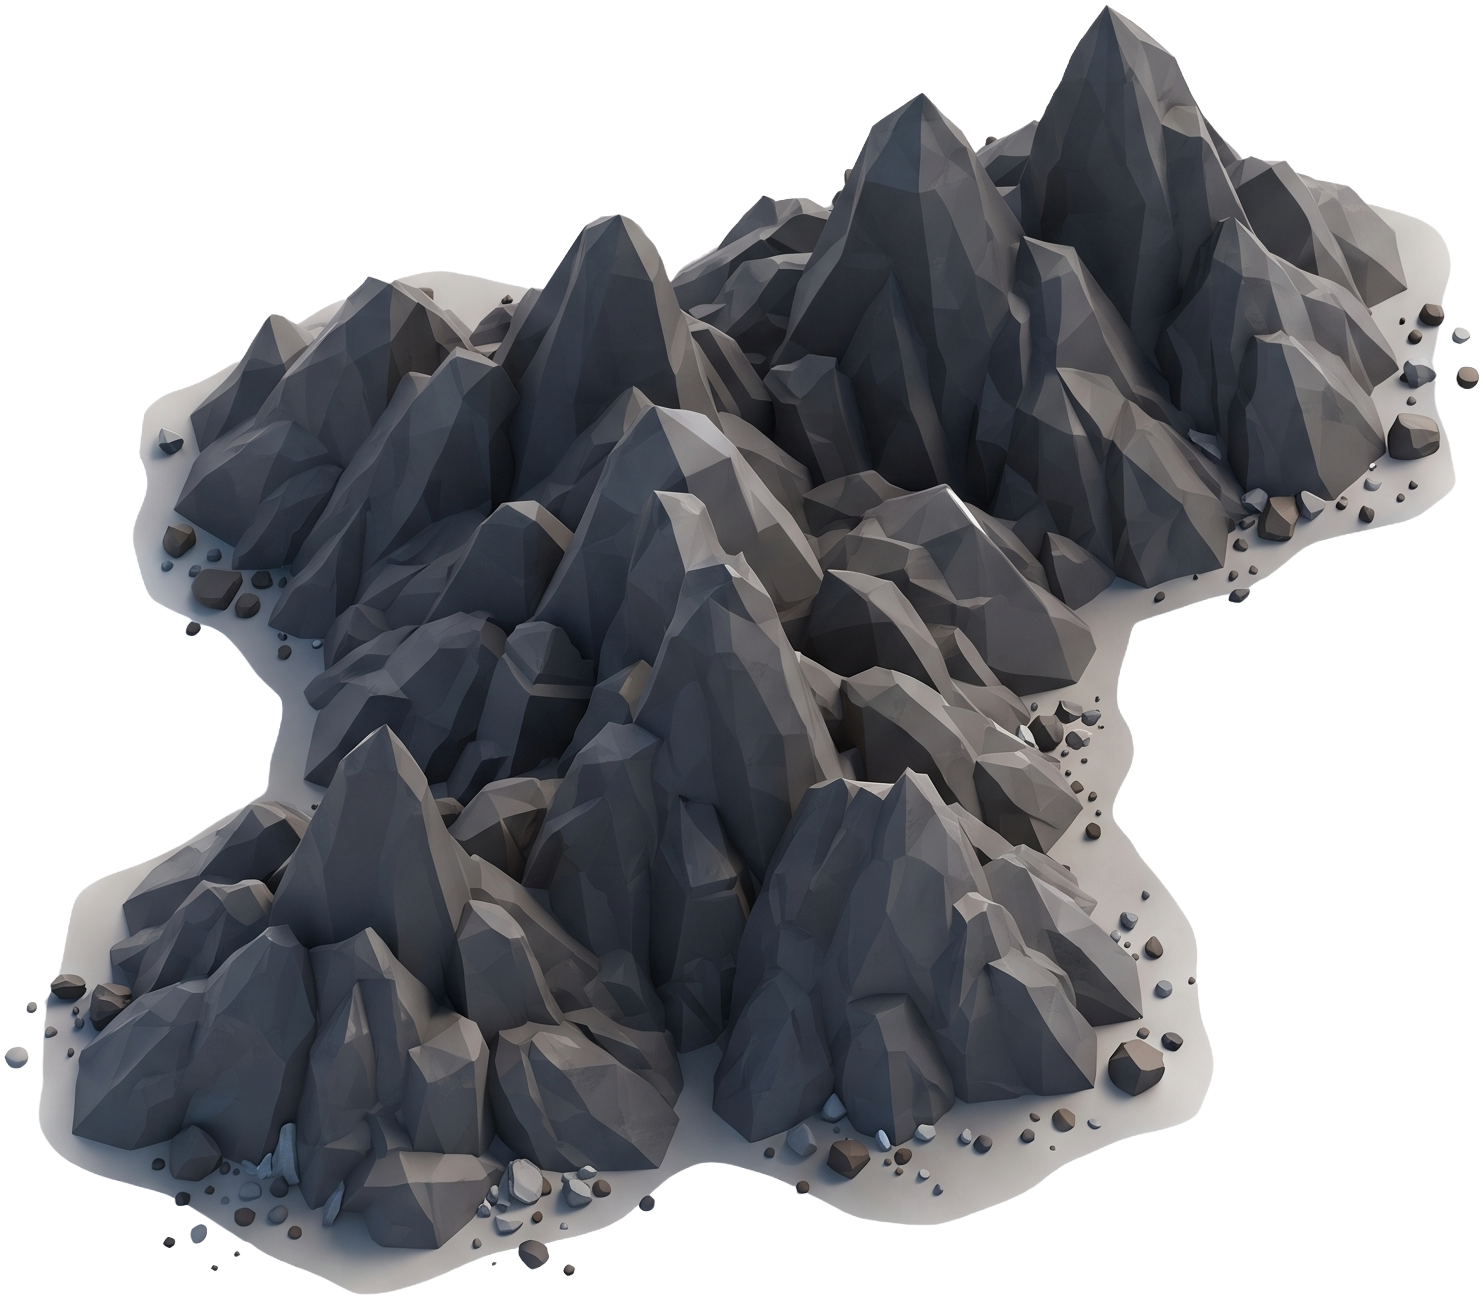
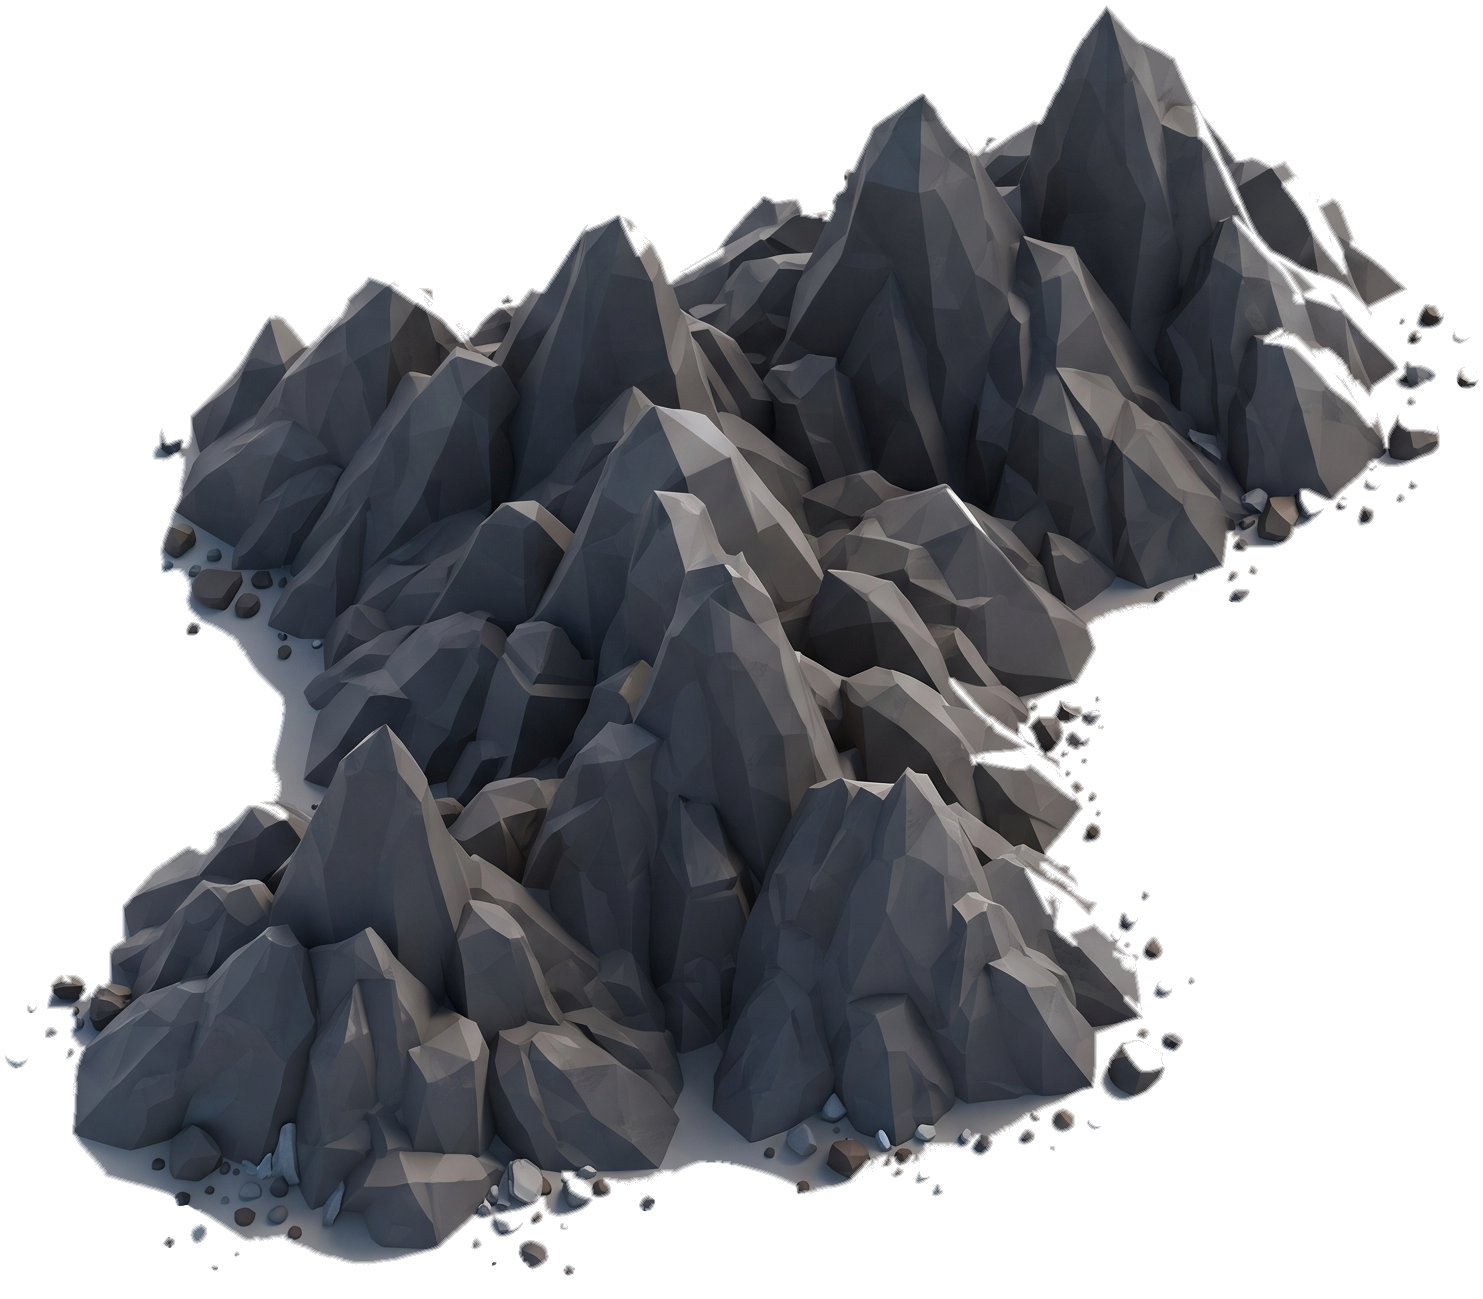
Fix mountain decor blending, enforce 1-hex buffer, closer zoom, glow on all objects
- Strip the baked-in light-gray ground apron from range-a/range-b mountain
  PNGs (region-growing flood fill from the transparent border through
  bright pixels only, so it never eats into genuinely lit rock faces) --
  this was causing a visible tone-mismatch seam against the flat green
  hex grass.
- Mountains now occupy exactly one logical hex, like castles, instead of
  a multi-hex footprint. Placement now requires the root hex AND its full
  ring of 6 neighbors to be free of any other object (castle/NPC/other
  decor), so nothing ever sits edge-to-edge with anything else. Raised
  MOUNTAIN_DENSITY so the result reads as sparse/proportional rather than
  clustered.
- Doubled every TILE_WIDTHS step so the opening view and the normal zoom
  range are both 2x closer than before.
- Added the existing pulsing glow treatment to NPC castles (own orange
  tone) and mountain decor (teal tone) -- previously only player castles
  had it.
- New one-time server migration (decor_rebalance_reset_v1) wipes the test
  players/tiles/guilds and regenerates a fresh map on next boot, per
  direct request, following the same reset pattern as the three earlier
  map-format migrations.

diff --git a/client/src/App.tsx b/client/src/App.tsx
@@ -56,7 +56,12 @@ const VIEWPORT_MARGIN = 6;
 // engelliyor, ve varsayılan (72) eskisinden %56 daha büyük başlıyor ("daha
 // yakın plan"). Üst uca da bir sonraki adım (160) eklendi, yakınlaştırma
 // tavanı da birlikte yükselsin diye.
-const TILE_WIDTHS = [36, 52, 72, 100, 136, 160];
+// Eren (2. tur): "Oyun açılış ve standart oynanış ekranı şuan mevcut olandan
+// x2 zoom mesafesi daha yakın olucak." -- her seviye birebir 2 katına
+// çıkarıldı (varsayılan index AYNI kaldı, yani 72 -> 144), böylece hem
+// açılış hem de zoom in/out aralığının TAMAMI orantılı şekilde 2x yakınlaşmış
+// oluyor.
+const TILE_WIDTHS = [72, 104, 144, 200, 272, 320];
 // Varsayılan artık 72px (index 2) -- eski varsayılan (46) yerine, "daha yakın
 // plan" isteği için bir kademe büyütüldü.
 const DEFAULT_TILE_WIDTH_INDEX = 2;
@@ -135,39 +140,36 @@ function grassTextureForTile(x: number, y: number): string {
 }
 
 // ---------------------------------------------------------------------
-// Dağ / çoklu-hex dekor sistemi
+// Dağ / dekor sistemi
 // ---------------------------------------------------------------------
-// Eren: "dağ olayı ... çoklu hexliye yükleme" -- 5 benzersiz dağ görseli
-// gönderdi (3 kanyon/yarık tarzı, 2 sıradağ tarzı). Kale görselinin karo
-// dışına taşması gibi ama ÇOK daha büyük: her dağ TEK bir hex'e değil,
-// kök karoya bitişik birden fazla hex'e birden yayılan bir sprite.
-// "yönleri asimetrik yerleşebilir" notu üzerine her dağın ayak izi
-// BİLEREK simetrik olmayan bir hex kümesi -- server/src/game/mapgen.ts
-// HEX_DIRECTIONS'daki ([[1,0],[1,-1],[0,-1],[-1,0],[-1,1],[0,1]]) 6 gerçek
-// komşu yönden seçilmiş bir alt küme, düzgün "çiçek" şekli değil.
+// Eren: "Yüklediğimiz dağ görsellerinde zeminde üstüste binme var ... her
+// bir kale 1 hex zeminde yer alıyor ve merkez hex'in etrafındaki komşu 6
+// hex'e hiçbirşey yerleşmemeli. Hem kaleler hemde tüm görseller için
+// geçerli bu. Objelerin etrafında dönen tam 1 tur hex boş olucak." -- eski
+// sistemde bir dağ, kök karoya bitişik BİRDEN FAZLA hex'e yayılan bir
+// footprint kullanıyordu; bu hem iki dağın (ya da bir dağ ile bir kalenin)
+// doğrudan yan yana/iç içe çizilmesine hem de dağ görselindeki (PNG'nin
+// kendi kayadan taşan açık gri zemin/gölge apronu) komşu hex'in farklı
+// tondaki çimiyle çarpışıp görünür bir "dikiş" gibi durmasına yol açıyordu.
+// Artık her dağ, kale ikonları gibi TEK bir mantıksal hex'e ait; görseli o
+// hex'in sınırlarından `scale` oranında TAŞARAK çiziliyor ama sadece bu
+// kökün 6 komşusunun (hem kale/NPC hem başka dağ için) HER ZAMAN boş
+// kalacağı garanti edildiği için (bkz. `occupied` kontrolü aşağıda) taşma
+// hiçbir zaman başka bir objeyle çakışmıyor.
 //
 // Yerleştirme sunucuya/DB'ye HİÇ dokunmadan tamamen CLIENT tarafında,
 // koordinata göre DETERMİNİSTİK yapılıyor (bkz. hashXY -- grassTextureForTile
 // ile aynı prensip: Math.random() değil, sayfa her açıldığında AYNI
-// karolarda aynı dağ çıksın). Bu yaklaşımın bilinçli tercih sebebi: harita
-// zaten CANLI ve üretilmiş -- mapgen.ts'e (sunucu, sadece YENİ üretilecek
-// haritaları etkiler) dokunmak burada hiçbir şey değiştirmezdi. Bir dağ,
-// ayak izindeki TÜM karolar o an "EMPTY" (boş) DEĞİLSE hiç yerleştirilmiyor
-// -- yani var olan bir NPC kampının veya oyuncu kalesinin üzerine asla
-// binmiyor, bu da NPC'lerin dağ karolarına "spawn olması" sorununu ayrıca
-// bir koda gerek kalmadan otomatik olarak engelliyor (bkz.
-// computePlacedMountains).
+// karolarda aynı dağ çıksın).
 type MountainDef = {
   id: string;
   img: string;
-  // Kök karoya göre komşu offsetleri (HEX_DIRECTIONS'ın bir alt kümesi).
-  footprint: [number, number][];
-  scale: number; // kapladığı kutuyu bu kadar büyüt (hafif taşma/zenginlik için)
+  scale: number; // görsel, kendi hex'inin kaç katı bir kutuya sığdırılıp ortalanacak (kale ikonlarındaki taşma payı gibi)
 };
 
 const MOUNTAIN_DEFS: MountainDef[] = [
-  { id: "range-a", img: "/decor/mountains/range-a.png", footprint: [[0, 0], [1, 0], [0, 1], [1, -1]], scale: 1.1 },
-  { id: "range-b", img: "/decor/mountains/range-b.png", footprint: [[0, 0], [-1, 0], [-1, 1], [0, 1], [1, 0]], scale: 1.1 },
+  { id: "range-a", img: "/decor/mountains/range-a.png", scale: 2.2 },
+  { id: "range-b", img: "/decor/mountains/range-b.png", scale: 2.2 },
 ];
 
 // Basit, hızlı, deterministik tam sayı hash'i (Math.random() DEĞİL -- aynı
@@ -179,10 +181,17 @@ function hashXY(x: number, y: number, seed: number): number {
   return h >>> 0;
 }
 
-// Yaklaşık her 60 boş karodan biri bir dağ ADAYI olarak seçiliyor -- ayak
-// izi tamamen boş çıkmayan adaylar elendiği için gerçek yoğunluk bundan
-// belirgin şekilde daha seyrek.
-const MOUNTAIN_DENSITY = 60;
+// server/src/game/mapgen.ts'teki HEX_DIRECTIONS ile birebir aynı 6 axial
+// komşu yön -- bir hex'in "1 tur"unu (6 komşusunu) bulmak için kullanılıyor.
+const HEX_DIRECTIONS: [number, number][] = [
+  [1, 0], [1, -1], [0, -1], [-1, 0], [-1, 1], [0, 1],
+];
+
+// Eren: "Dekorları daha az tut - haritaya orantılı şekilde dağıt." -- tek-hex
+// + 1 tur boşluk kuralı zaten adayların çoğunu eleyip yoğunluğu belirgin
+// şekilde azaltıyor, ama üstüne bu değer de eskisinden (60) ciddi oranda
+// yükseltildi ki sonuç harita genelinde seyrek/nadir kalsın.
+const MOUNTAIN_DENSITY = 240;
 
 type PlacedMountain = {
   key: string;
@@ -193,8 +202,16 @@ type PlacedMountain = {
 };
 
 function computePlacedMountains(tiles: Tile[]): PlacedMountain[] {
-  const byKey = new Map<string, Tile>();
-  for (const t of tiles) byKey.set(`${t.x},${t.y}`, t);
+  // Bir hex "işgal edilmiş" sayılır ki komşusuna YENİ bir dekor kökü
+  // yerleştirilemesin -- ya gerçek bir kale/NPC karosudur ya da daha önce
+  // bu döngüde bir dağın kökü olarak seçilmiştir. Kale-kale bitişikliği
+  // BİLEREK burada kısıtlanmıyor (oyuncular komşu kareyi fethederek
+  // genişler, bu normal oynanış) -- kural sadece dekorun kendisine ve
+  // dekorun kalelere/başka dekora olan mesafesine uygulanıyor.
+  const occupied = new Set<string>();
+  for (const t of tiles) {
+    if (t.tileType !== "EMPTY") occupied.add(`${t.x},${t.y}`);
+  }
 
   const candidates = tiles.filter(
     (t) => t.tileType === "EMPTY" && hashXY(t.x, t.y, 1) % MOUNTAIN_DENSITY === 0
@@ -203,20 +220,17 @@ function computePlacedMountains(tiles: Tile[]): PlacedMountain[] {
   // sırada çözülmesi için koordinataya göre sırala.
   candidates.sort((a, b) => a.x - b.x || a.y - b.y);
 
-  const claimed = new Set<string>();
   const placed: PlacedMountain[] = [];
   for (const t of candidates) {
+    const key = `${t.x},${t.y}`;
+    if (occupied.has(key)) continue;
+    const touchesOccupied = HEX_DIRECTIONS.some(([dx, dy]) => occupied.has(`${t.x + dx},${t.y + dy}`));
+    if (touchesOccupied) continue;
+
     const defIndex = hashXY(t.x, t.y, 2) % MOUNTAIN_DEFS.length;
     const def = MOUNTAIN_DEFS[defIndex];
-    const footprintKeys = def.footprint.map(([dx, dy]) => `${t.x + dx},${t.y + dy}`);
-    const allEmpty = footprintKeys.every((k) => {
-      const ft = byKey.get(k);
-      return !!ft && ft.tileType === "EMPTY" && !claimed.has(k);
-    });
-    if (!allEmpty) continue;
-    for (const k of footprintKeys) claimed.add(k);
-    const frontSortKey = Math.max(...def.footprint.map(([dx, dy]) => t.x + dx + (t.y + dy)));
-    placed.push({ key: `${t.x},${t.y}:${def.id}`, def, rootX: t.x, rootY: t.y, frontSortKey });
+    occupied.add(key);
+    placed.push({ key: `${key}:${def.id}`, def, rootX: t.x, rootY: t.y, frontSortKey: t.x + t.y });
   }
   return placed;
 }
@@ -923,17 +937,11 @@ export default function App() {
   // tutarlılık garanti ediliyor.
   const mountainScreens = useMemo(() => {
     return placedMountains.map((m) => {
-      const centers = m.def.footprint.map(([dx, dy]) => isoCenter(m.rootX + dx, m.rootY + dy, tileWidth));
-      const minCx = Math.min(...centers.map((c) => c.cx)) - tileWidth / 2;
-      const maxCx = Math.max(...centers.map((c) => c.cx)) + tileWidth / 2;
-      const minCy = Math.min(...centers.map((c) => c.cy)) - tileHeight / 2;
-      const maxCy = Math.max(...centers.map((c) => c.cy)) + tileHeight / 2;
-      const boxW = (maxCx - minCx) * m.def.scale;
-      const boxH = (maxCy - minCy) * m.def.scale;
-      const centerX = (minCx + maxCx) / 2;
-      const centerY = (minCy + maxCy) / 2;
-      const box: MountainScreenBox = { key: m.key, centerX, centerY, radius: (boxW + boxH) / 4 };
-      return { mountain: m, left: centerX - boxW / 2, top: centerY - boxH / 2, width: boxW, height: boxH, box };
+      const { cx, cy } = isoCenter(m.rootX, m.rootY, tileWidth);
+      const boxW = tileWidth * m.def.scale;
+      const boxH = tileHeight * m.def.scale;
+      const box: MountainScreenBox = { key: m.key, centerX: cx, centerY: cy, radius: (boxW + boxH) / 4 };
+      return { mountain: m, left: cx - boxW / 2, top: cy - boxH / 2, width: boxW, height: boxH, box };
     });
   }, [placedMountains, tileWidth, tileHeight]);
 
@@ -1536,9 +1544,10 @@ export default function App() {
                         .iso-labels-layer: NPC gri, kendi/klan sarı, düşman
                         oyuncu kırmızı. */}
                     {showCastle && (
-                      // Eren: "Sadece oyuncu kalelerine ışıltı ekle" -- glow
-                      // sadece burada (showCastle/PLAYER dalı), NPC kampları
-                      // (showNpc dalı, aşağıda) hiç dokunulmadı.
+                      // Eren (2. tur): "Tüm kale ve dekorlara da ışıltı ekle"
+                      // -- altın parıltı artık NPC kamplarında da var (bkz.
+                      // showNpc dalı), oyuncu kaleleri kendi altın tonunu
+                      // korudu.
                       <img
                         src={castleIcon}
                         alt=""
@@ -1555,7 +1564,7 @@ export default function App() {
                       <img
                         src={npcIcon}
                         alt=""
-                        className="iso-castle"
+                        className="iso-castle iso-npc-glow"
                         style={{
                           width: npcBoxWidth,
                           height: npcBoxHeight,
@@ -1586,24 +1595,23 @@ export default function App() {
                   </div>
                 );
               })}
-              {/* Dağ / çoklu-hex dekor katmanı -- bkz. yukarıdaki
-                  MOUNTAIN_DEFS/computePlacedMountains yorumu. Kale
-                  görsellerinin karo dışına taşması gibi ama çok daha büyük:
-                  her <img> kendi kapladığı TÜM hex'lerin ekran alanına
-                  sığacak şekilde konumlanıyor (bkz. mountainScreens),
-                  z-index'i de frontSortKey'e göre yukarıdaki karolarla AYNI
-                  numaralandırmada -- böylece dağın önünden geçen bir karo
-                  dağın üstüne, arkasındaki bir karo dağın altına doğru
-                  çiziliyor (painter's algorithm, bkz. sortedTiles yorumu).
-                  pointer-events:none -- tıklama her zaman altındaki (zaten
-                  "ölü alan" olan EMPTY) karoya gidiyor, ayrıca bir tıklama
-                  davranışı eklemeye gerek yok. */}
+              {/* Dağ / dekor katmanı -- bkz. yukarıdaki MOUNTAIN_DEFS/
+                  computePlacedMountains yorumu. Kale görsellerinin karo
+                  dışına taşması gibi: her <img> kendi kök hex'inin ekran
+                  alanına `scale` oranında taşarak konumlanıyor (bkz.
+                  mountainScreens), z-index'i de frontSortKey'e göre
+                  yukarıdaki karolarla AYNI numaralandırmada -- böylece dağın
+                  önünden geçen bir karo dağın üstüne, arkasındaki bir karo
+                  dağın altına doğru çiziliyor (painter's algorithm, bkz.
+                  sortedTiles yorumu). pointer-events:none -- tıklama her
+                  zaman altındaki (zaten "ölü alan" olan EMPTY) karoya
+                  gidiyor, ayrıca bir tıklama davranışı eklemeye gerek yok. */}
               {mountainScreens.map(({ mountain, left, top, width, height }) => (
                 <img
                   key={mountain.key}
                   src={mountain.def.img}
                   alt=""
-                  className="iso-mountain"
+                  className="iso-mountain iso-mountain-glow"
                   style={{
                     left,
                     top,

diff --git a/client/src/App.css b/client/src/App.css
@@ -538,10 +538,13 @@ button:not(:disabled):active {
   object-position: bottom center;
 }
 
-/* Eren: "Sadece oyuncu kalelerine ışıltı ekle" -- gerçek oyuncu kalelerinin
-   (NPC kampı değil) etrafında yumuşak, yavaşça nefes alan altın bir parıltı.
-   drop-shadow kullanıyoruz (box-shadow değil) çünkü görsel şeffaf PNG --
-   drop-shadow gerçek siluete göre yayılıyor, dikdörtgen kutuya göre değil. */
+/* Eren: "Sadece oyuncu kalelerine ışıltı ekle" (1. tur), sonra "Tüm kale ve
+   dekorlara da ışıltı ekle" (2. tur) -- her obje türü artık kendi rengiyle
+   yumuşak, yavaşça nefes alan bir parıltıya sahip: oyuncu kaleleri altın
+   (Valerion kristal/taç temasıyla uyumlu), NPC kampları lav setinin
+   turuncu-kızılıyla, dağ dekorları ise buz/kristal turkuazıyla. drop-shadow
+   kullanıyoruz (box-shadow değil) çünkü görseller şeffaf PNG -- drop-shadow
+   gerçek siluete göre yayılıyor, dikdörtgen kutuya göre değil. */
 .iso-castle-glow {
   animation: castle-glow-pulse 2.6s ease-in-out infinite;
 }
@@ -552,6 +555,32 @@ button:not(:disabled):active {
   }
   50% {
     filter: drop-shadow(0 0 9px rgba(255, 213, 79, 0.9)) drop-shadow(0 0 18px rgba(255, 213, 79, 0.55));
+  }
+}
+
+.iso-npc-glow {
+  animation: npc-glow-pulse 2.6s ease-in-out infinite;
+}
+
+@keyframes npc-glow-pulse {
+  0%, 100% {
+    filter: drop-shadow(0 0 5px rgba(255, 111, 64, 0.55)) drop-shadow(0 0 11px rgba(255, 111, 64, 0.3));
+  }
+  50% {
+    filter: drop-shadow(0 0 9px rgba(255, 111, 64, 0.9)) drop-shadow(0 0 18px rgba(255, 111, 64, 0.55));
+  }
+}
+
+.iso-mountain-glow {
+  animation: mountain-glow-pulse 3.4s ease-in-out infinite;
+}
+
+@keyframes mountain-glow-pulse {
+  0%, 100% {
+    filter: drop-shadow(0 12px 16px rgba(0, 0, 0, 0.45)) drop-shadow(0 0 6px rgba(94, 234, 212, 0.35));
+  }
+  50% {
+    filter: drop-shadow(0 12px 16px rgba(0, 0, 0, 0.45)) drop-shadow(0 0 12px rgba(94, 234, 212, 0.6));
   }
 }
 

diff --git a/server/src/game/mapgen.ts b/server/src/game/mapgen.ts
@@ -368,6 +368,29 @@ export async function applyRectSingleIslandMigration() {
   console.log(`[migration] ${MIGRATION_NAME}: tamamlandı, harita dikdörtgen tek ada olarak yeniden üretilecek.`);
 }
 
+// Eren: "Objelerin etrafında dönen tam 1 tur hex boş olucak... işlemlerden
+// sonra sunucuyu sıfırla" -- bu turdaki değişikliklerin (dağ dekoru
+// yeniden tasarımı, zoom, ışıltı) hiçbiri harita ÜRETİM formatını
+// değiştirmiyor (hâlâ aynı dikdörtgen tek ada, aynı hex sistemi) -- dekor
+// zaten tamamen CLIENT tarafında hesaplanıyor. Yine de doğrudan "sıfırla"
+// isteği geldiği için, yukarıdaki geçişlerle (hex/tek ada/dikdörtgen)
+// AYNI TRUNCATE deseniyle test verisini temizleyip temiz bir haritayla
+// yeniden başlıyoruz.
+export async function applyDecorRebalanceResetMigration() {
+  const MIGRATION_NAME = "decor_rebalance_reset_v1";
+  if (await hasMigration(MIGRATION_NAME)) return;
+
+  console.log(`[migration] ${MIGRATION_NAME}: dekor/zoom güncellemesi sonrası test verisi sıfırlanıyor...`);
+  await pool.query(
+    `TRUNCATE TABLE
+       tile_reinforcements, scout_reports, player_reports, battle_log,
+       guild_members, guilds, tiles, players
+     RESTART IDENTITY CASCADE`
+  );
+  await markMigration(MIGRATION_NAME);
+  console.log(`[migration] ${MIGRATION_NAME}: tamamlandı, harita yeniden üretilecek.`);
+}
+
 export async function ensureMapGenerated(settings: Settings) {
   const { rows } = await pool.query<{ count: string }>("SELECT COUNT(*)::int as count FROM tiles");
   if (Number(rows[0].count) > 0) return;

diff --git a/server/src/index.ts b/server/src/index.ts
@@ -6,6 +6,7 @@ import {
   applyHexGridConversionMigration,
   applyBigSingleIslandMigration,
   applyRectSingleIslandMigration,
+  applyDecorRebalanceResetMigration,
   applyNpcBorderMigration,
   applyNpcDensityReductionMigration,
   applyNpcDensityReductionMigrationV3,
@@ -37,6 +38,9 @@ async function main() {
   // Organik adadan düz dikdörtgen adaya geçiş + NPC yoğunluğunu bir kademe
   // daha düşürme -- yine ÖNCE ve senkron (bkz. yukarıdaki notlar).
   await applyRectSingleIslandMigration();
+  // Dağ dekoru yeniden tasarımı (tek-hex + 1 tur boşluk kuralı, zoom, ışıltı)
+  // sonrası doğrudan "sunucuyu sıfırla" isteği -- bkz. mapgen.ts yorumu.
+  await applyDecorRebalanceResetMigration();
   await seedDefaultSettings();
   const settings = await loadSettings();
   await ensureMapGenerated(settings);
